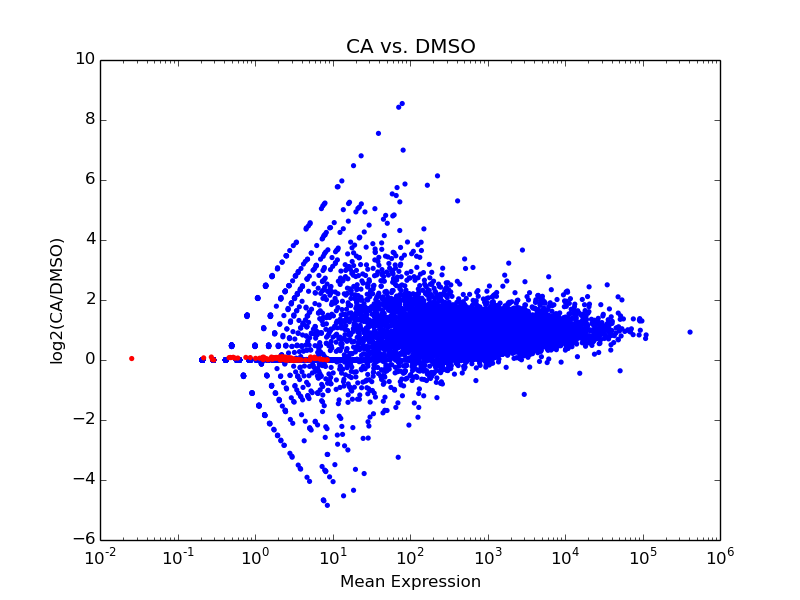
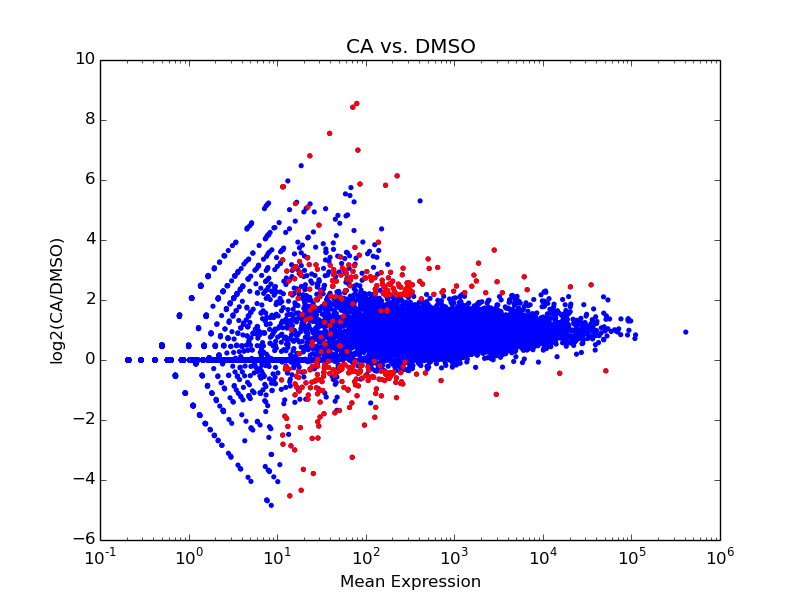
updates

diff --git a/src/deseq.py b/src/deseq.py
@@ -30,7 +30,6 @@ def run(counts,conditions,deseqdir):
             site = ':'.join(line[:3])
             d[site] = [[]]
             for val in line[3:]:
-                #d[chr:start:stop] = [[val1,val2,val3,val4,...,valn],[log2foldchangeiterations],condition1mean,condition2mean,meanexpression,log2foldchangemean]
                 d[site][0].append(float(val))
             indexesi = conditionIndexes[0]
             indexesj = conditionIndexes[1]
@@ -58,13 +57,13 @@ def run(counts,conditions,deseqdir):
             d[site].append(foldchange)
             sites.append(site)
 
+    #d[chr:start:stop] = [[val1,val2,val3,val4,...,valn],[log2foldchangeiterations],condition1mean,condition2mean,meanexpression,log2foldchangemean]
 
     sigx = list()
     sigy = list()
 
     low = 10
     high = max(x)
-    print "low: ", low, "high: ",high
     windows = int(np.log10(high))
     p = 0.1
     for i in range(windows):
@@ -89,12 +88,14 @@ def run(counts,conditions,deseqdir):
             meanrep = np.mean(replist)
             srep = np.std(replist)/(len(replist))**(1/2)
             Z = (meany-meanrep)/((sy)**2 + (srep)**2)**(1/2)
-            pval = min(stats.norm.cdf(Z),1-stats.norm.cdf(Z))
+            # pval = min(stats.norm.cdf(Z),1-stats.norm.cdf(Z))
+            pval = stats.ks_2samp(replist,windowy)[1]
             d[key].append(pval)
             if pval < p:
                 sigx.append(d[key][-3])
                 sigy.append(d[key][-2])
 
+    #d[chr:start:stop] = [[val1,val2,val3,val4,...,valn],[log2foldchangeiterations],condition1mean,condition2mean,meanexpression,log2foldchangemean,pval]
 
 
 
